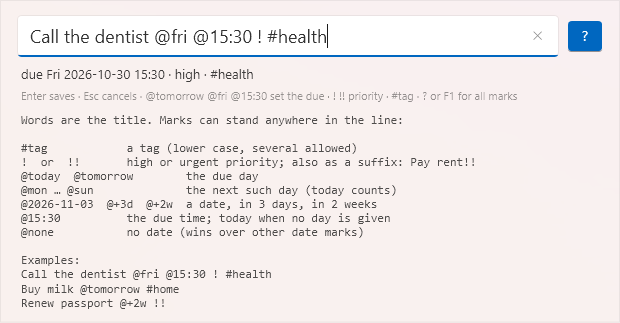
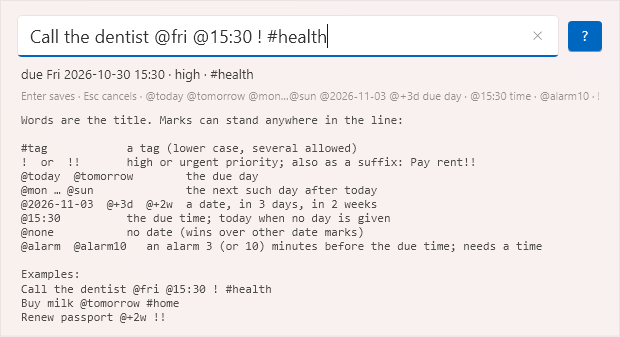
Fix the clipped alarm column in the list, add the alarm card screenshot, name @alarm in the add box
The list no longer scrolls sideways, so the bell and its minutes fit. README screenshots retaken with
tools/shoot_windows.ps1 -Data (capture, help, list with the All view and bells, alarm card). Version 0.2.1.

diff --git a/src/Tasketier.App/ListWindow.xaml b/src/Tasketier.App/ListWindow.xaml
@@ -73,7 +73,7 @@
             <Button DockPanel.Dock="Right" Content="?" Width="36" Margin="8,0,0,0" Click="OnHelpClick" ToolTip="The marks you can type and the keys (F1)" />
             <Grid>
                 <TextBox x:Name="AddBox" FontSize="15" Padding="8,6" PreviewKeyDown="OnAddKeyDown" TextChanged="OnAddTextChanged" />
-                <TextBlock x:Name="AddHint" Text="Add a task… (Enter saves; @today @tomorrow @mon…@sun @15:30 ! !! #tag; ? for all marks)" Margin="12,0,0,0" VerticalAlignment="Center" Opacity="0.45" IsHitTestVisible="False" />
+                <TextBlock x:Name="AddHint" Text="Add a task… (Enter saves; @today @tomorrow @mon…@sun @15:30 @alarm ! !! #tag; ? for all marks)" Margin="12,0,0,0" VerticalAlignment="Center" Opacity="0.45" IsHitTestVisible="False" />
             </Grid>
         </DockPanel>
         <Grid Grid.Row="1">
@@ -97,7 +97,7 @@
                     <TextBox x:Name="FilterBox" Padding="8,5" TextChanged="OnFilterChanged" PreviewKeyDown="OnFilterKeyDown" />
                     <TextBlock x:Name="FilterHint" Text="Filter by title or #tag (Ctrl+F)" Margin="12,0,0,0" VerticalAlignment="Center" Opacity="0.45" IsHitTestVisible="False" />
                 </Grid>
-                <ListView x:Name="Tasks" Grid.Row="1" ItemTemplate="{StaticResource TaskRowTemplate}" HorizontalContentAlignment="Stretch" PreviewKeyDown="OnTasksKeyDown" SelectionMode="Single">
+                <ListView x:Name="Tasks" Grid.Row="1" ItemTemplate="{StaticResource TaskRowTemplate}" HorizontalContentAlignment="Stretch" PreviewKeyDown="OnTasksKeyDown" SelectionMode="Single" ScrollViewer.HorizontalScrollBarVisibility="Disabled">
                     <ListView.ItemContainerStyle>
                         <Style TargetType="ListViewItem" BasedOn="{StaticResource {x:Type ListViewItem}}">
                             <Setter Property="HorizontalContentAlignment" Value="Stretch" />

diff --git a/tests/Tasketier.Cli.Tests/CommandRunnerTests.cs b/tests/Tasketier.Cli.Tests/CommandRunnerTests.cs
@@ -136,7 +136,7 @@ public sealed class CommandRunnerTests : IDisposable
         Assert.Equal(ExitCode.Ok, await _runner.RunAsync(["help"]));
         Assert.Contains("Inline syntax", _out.ToString(), StringComparison.Ordinal);
         Assert.Equal(ExitCode.Ok, await _runner.RunAsync(["version"]));
-        Assert.Contains("0.2.0", _out.ToString(), StringComparison.Ordinal);
+        Assert.Contains("0.2.1", _out.ToString(), StringComparison.Ordinal);
     }
 
     [Fact]

diff --git a/README.md b/README.md
@@ -33,7 +33,12 @@ parser read from it, before you press Enter:
 The list window, Today view. Overdue tasks come first, in red. Then the tasks due today. Then the
 task planned for today, with the star:
 
-![The list window with the Today view: four tasks, one overdue, one with a time and a priority mark, one starred](docs/img/list.png)
+![The list window with the Today view: four tasks, one overdue, one with a time, a priority mark and an alarm, one starred](docs/img/list.png)
+
+An alarm card. It beeps until you answer it. Done completes the task, the three middle buttons
+snooze, Disarm acknowledges, and `Esc` snoozes one minute:
+
+![The alarm card: the task title, its due time, and the buttons Done, 5 min, 15 min, 1 h, Disarm](docs/img/alarm.png)
 
 ## How to run
 
